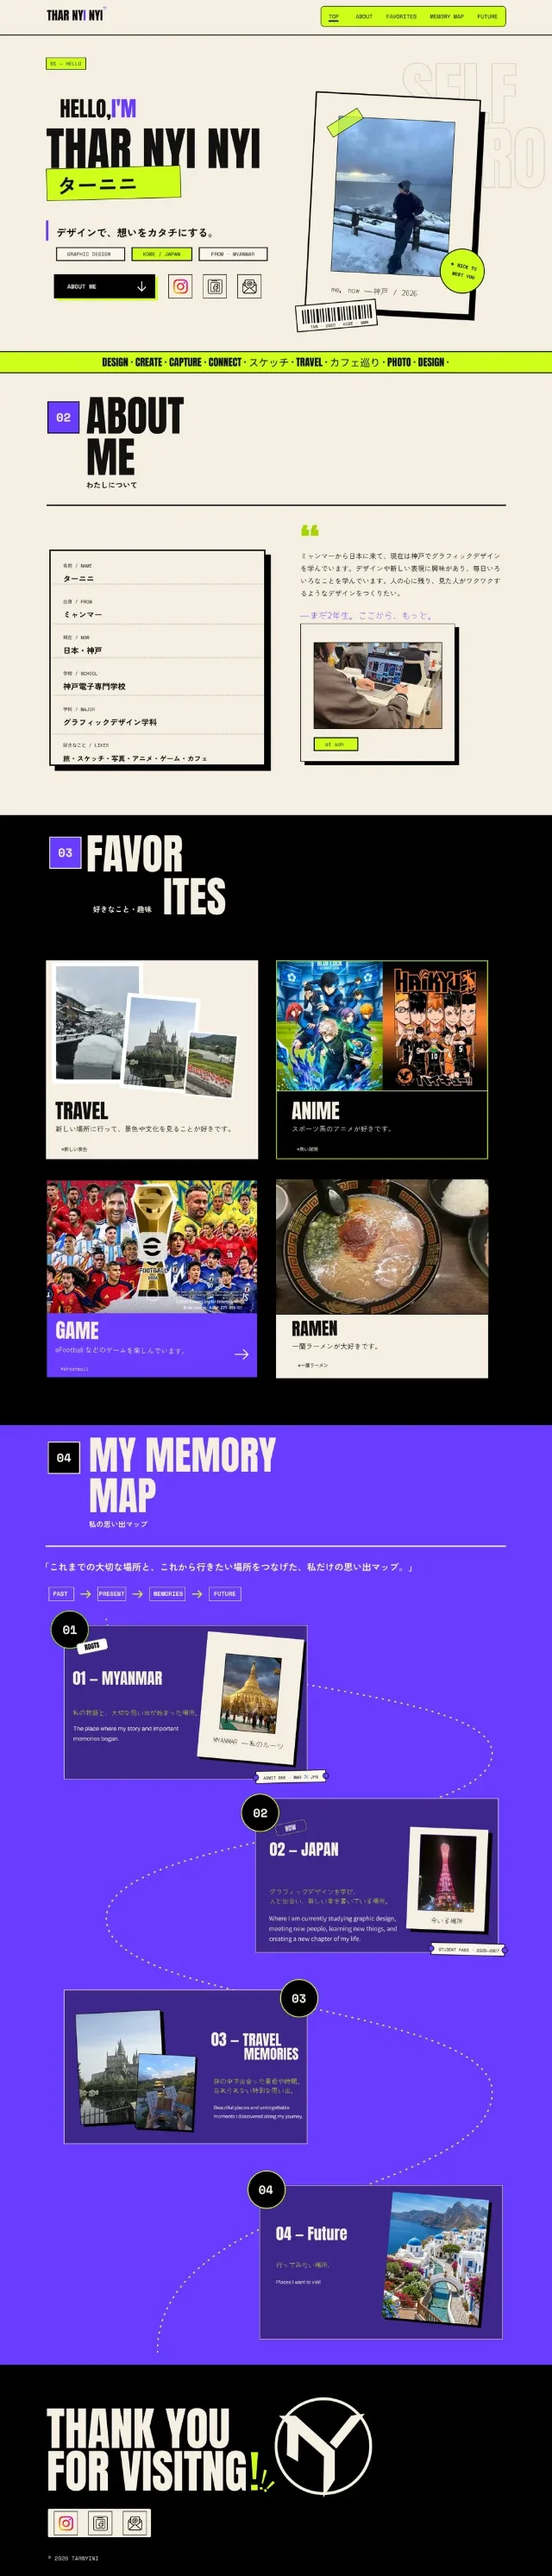
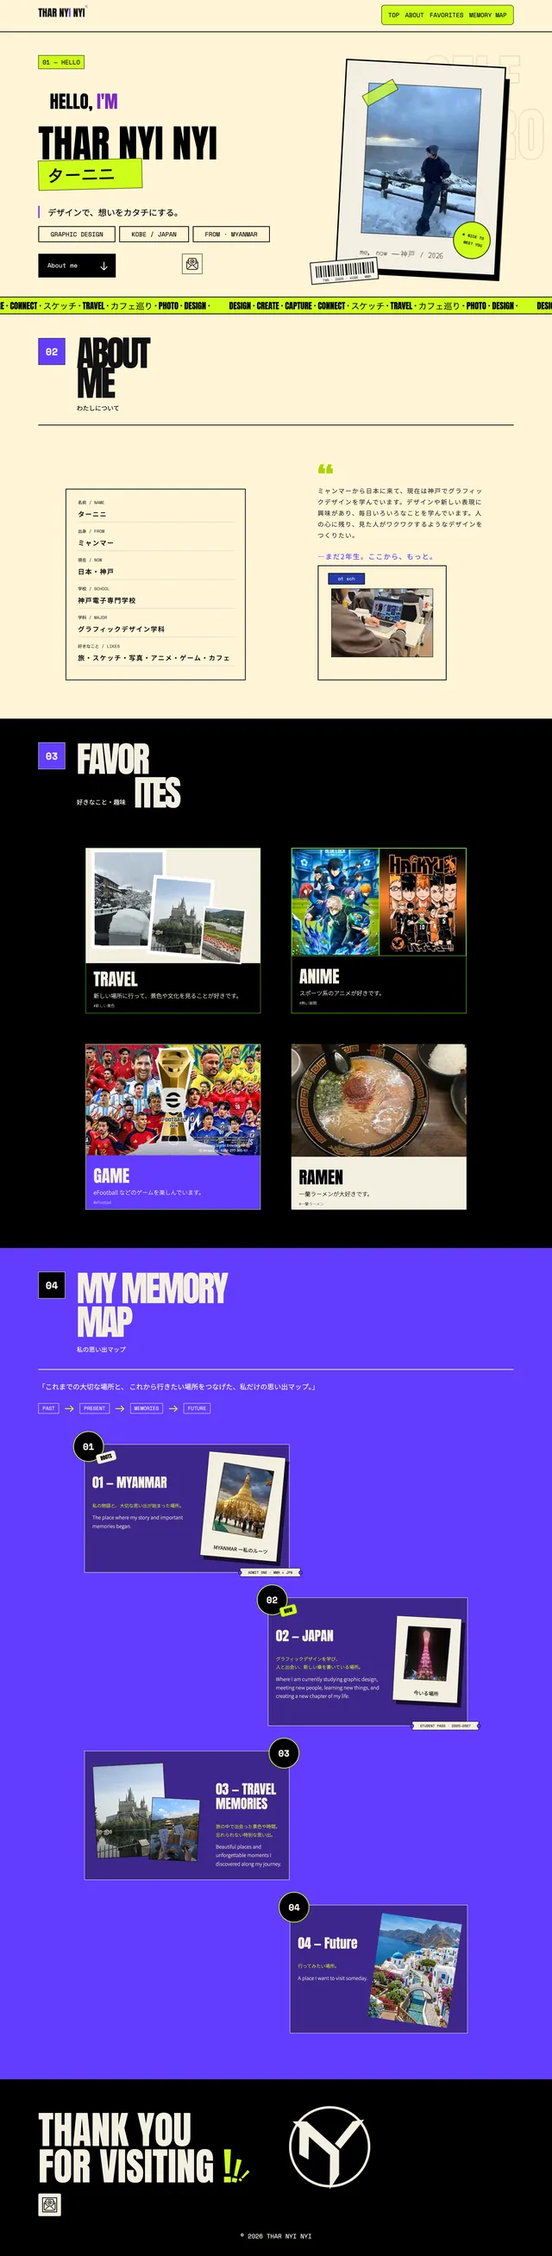
Self-intro: screenshots of the live site replace the Figma design; copy and URL bar match it

Changed region(s): [[0.0, 0.0, 1.0, 1.0], [0.5312, 0.1858, 0.875, 0.3096]]

diff --git a/works.html b/works.html
@@ -111,7 +111,7 @@
             <span class="proj-row__main">
               <span class="proj-row__meta"><span class="tag">Website Design</span><span class="work-year">2026</span></span>
               <h2 class="proj-row__title">About Me Site</h2>
-              <span class="proj-row__media" aria-hidden="true"><div class="pm"><div class="pm-browser"><div class="pm-browser__bar"><i></i><i></i><i></i></div><div class="pm-browser__view"><img src="assets/works/self-intro-site/self-intro.webp" alt="自己紹介サイト Webデザイン" width="1000" height="4665" loading="lazy" decoding="async"></div></div></div></span>
+              <span class="proj-row__media" aria-hidden="true"><div class="pm"><div class="pm-browser"><div class="pm-browser__bar"><i></i><i></i><i></i></div><div class="pm-browser__view"><img src="assets/works/self-intro-site/self-intro.webp" alt="自己紹介サイト Webデザイン" width="1000" height="4088" loading="lazy" decoding="async"></div></div></div></span>
               <span class="work-desc proj-row__desc">自分自身を紹介する1ページのWebサイト。ABOUT ME・好きなもの・思い出のマップを、クリーム×ブラック×ネオンの遊び心あるデザインでまとめました。</span>
               <span class="proj-row__foot"><span class="proj-row__tools">課題 · School Assignment — Figma</span><span class="work-readmore">View Case Study <svg viewBox="0 0 24 24" fill="none" stroke="currentColor" stroke-width="2" stroke-linecap="round" stroke-linejoin="round"><line x1="5" y1="12" x2="19" y2="12"></line><polyline points="12 5 19 12 12 19"></polyline></svg></span></span>
             </span>
@@ -292,7 +292,7 @@
         <div class="bg-grid"></div>
         <div class="proj-stage__item" data-i="0"><div class="pm"><div class="pm-browser"><div class="pm-browser__bar"><i></i><i></i><i></i></div><div class="pm-browser__view"><img src="assets/works/aquarium/aquarium-full.webp" alt="神戸北野水族館 Webサイトデザイン" width="1000" height="3413" loading="lazy"></div></div></div><span class="tag proj-stage__cat">Website Design</span><span class="proj-stage__cap">Website · Figma</span><span class="proj-stage__n">01 / 16</span></div>
         <div class="proj-stage__item" data-i="1"><div class="pm"><div class="pm-browser"><div class="pm-browser__bar"><i></i><i></i><i></i></div><div class="pm-browser__view"><img src="assets/works/web-design/forno-rosso.webp" alt="FORNO ROSSO ピザ店 Webサイトデザイン" width="1000" height="2383" loading="lazy" decoding="async"></div></div></div><span class="tag proj-stage__cat">Website Design</span><span class="proj-stage__cap">5 sites · Figma</span><span class="proj-stage__n">02 / 16</span></div>
-        <div class="proj-stage__item" data-i="2"><div class="pm"><div class="pm-browser"><div class="pm-browser__bar"><i></i><i></i><i></i></div><div class="pm-browser__view"><img src="assets/works/self-intro-site/self-intro.webp" alt="自己紹介サイト Webデザイン" width="1000" height="4665" loading="lazy" decoding="async"></div></div></div><span class="tag proj-stage__cat">Website Design</span><span class="proj-stage__cap">Self-intro · Figma</span><span class="proj-stage__n">03 / 16</span></div>
+        <div class="proj-stage__item" data-i="2"><div class="pm"><div class="pm-browser"><div class="pm-browser__bar"><i></i><i></i><i></i></div><div class="pm-browser__view"><img src="assets/works/self-intro-site/self-intro.webp" alt="自己紹介サイト Webデザイン" width="1000" height="4088" loading="lazy" decoding="async"></div></div></div><span class="tag proj-stage__cat">Website Design</span><span class="proj-stage__cap">Self-intro · Figma</span><span class="proj-stage__n">03 / 16</span></div>
         <div class="proj-stage__item" data-i="3"><div class="pm"><div class="pm-browser"><div class="pm-browser__bar"><i></i><i></i><i></i></div><div class="pm-browser__view"><img src="assets/works/portfolio-site/top.webp" alt="ポートフォリオサイト トップページ デザイン" width="1000" height="2696" loading="lazy" decoding="async"></div></div></div><span class="tag proj-stage__cat">Website Design</span><span class="proj-stage__cap">8 pages · Figma</span><span class="proj-stage__n">04 / 16</span></div>
         <div class="proj-stage__item" data-i="4"><div class="pm"><div class="pm-fan"><img src="assets/works/art-and-human/poster-01.webp" alt="アートと人 ポスター コンセプト01" width="612" height="859" loading="lazy" decoding="async"><img src="assets/works/art-and-human/poster-03.webp" alt="アートと人 展覧会ポスター" width="612" height="859" loading="lazy" decoding="async"><img src="assets/works/art-and-human/poster-05.webp" alt="アートと人 ポスター コンセプト05" width="612" height="859" loading="lazy" decoding="async"></div></div><span class="tag proj-stage__cat">Poster Design</span><span class="proj-stage__cap">5 concepts · Illustrator</span><span class="proj-stage__n">05 / 16</span></div>
         <div class="proj-stage__item" data-i="5"><div class="pm"><div class="pm-board"><div class="pm-board__row"><img src="assets/works/banner-campaign/banner-01.webp" alt="レクタングルバナー" width="300" height="279" loading="lazy" decoding="async"><img src="assets/works/banner-campaign/banner-02.webp" alt="スカイスクレイパーバナー" width="160" height="600" loading="lazy" decoding="async"></div><img src="assets/works/banner-campaign/banner-03.webp" alt="リーダーボードバナー" width="728" height="90" loading="lazy" decoding="async"><img src="assets/works/banner-campaign/banner-04.webp" alt="バナー ブルーバリエーション" width="468" height="60" loading="lazy" decoding="async"></div></div><span class="tag proj-stage__cat">Banner Design</span><span class="proj-stage__cap">4 ad formats · Illustrator</span><span class="proj-stage__n">06 / 16</span></div>

diff --git a/js/i18n.js b/js/i18n.js
@@ -636,14 +636,14 @@
       "Self-introduction website design — full page",
     "自分自身をテーマにした自己紹介サイトのデザインです。プロフィールを並べるだけでなく、好きなものや、ミャンマーから日本へと続いてきた道のりを「章」に分けて見せることで、スクロールしながら人柄が伝わる構成を目指しました。":
       "A self-introduction website with myself as the theme. Rather than just listing my profile, it divides my favourite things and my journey from Myanmar to Japan into \"chapters\", so my personality comes across as you scroll.",
-    "大きな名前のタイポグラフィと写真、SNSアイコンで第一印象をつくるヒーロー。":
-      "A hero with big name typography, a photo and social icons to make the first impression.",
+    "大きな名前のタイポグラフィと写真、メールアイコンで第一印象をつくるヒーロー。":
+      "A hero with big name typography, a photo and an email icon to make the first impression.",
     "名前・出身・学校などの基本情報と、自己紹介文をノート風のカードで。":
       "Basic information — name, hometown, school — and a short introduction on notebook-style cards.",
     "旅行・アニメ・ゲーム・ラーメンなど、好きなものを写真タイルで紹介。":
       "Favourite things — travel, anime, games, ramen — shown as photo tiles.",
-    "01 Myanmar → 02 Japan → 03 Travel Memories → 04 Future。点線のルートでつないだ、思い出と未来の地図。":
-      "01 Myanmar → 02 Japan → 03 Travel Memories → 04 Future. A map of memories and the future, connected by a dotted route.",
+    "01 Myanmar → 02 Japan → 03 Travel Memories → 04 Future。カードを順にたどる、思い出と未来の地図。":
+      "01 Myanmar → 02 Japan → 03 Travel Memories → 04 Future. A map of memories and the future, followed card by card.",
     "クリーム色の紙のような背景に、黒の太いタイポグラフィとネオングリーン・パープルのアクセントを組み合わせ、スクラップブックのような手づくり感と元気さを表現しました。写真はポラロイド風に少し傾けて配置し、セクションごとに背景色を切り替えて章の区切りをはっきりさせています。":
       "A cream, paper-like background combined with bold black typography and neon green and purple accents gives it the handmade, cheerful feel of a scrapbook. Photos are tilted slightly like Polaroids, and the background colour changes per section to mark each chapter clearly.",
     // ---- work-video.html

diff --git a/work-self-intro.html b/work-self-intro.html
@@ -84,7 +84,7 @@
         <span class="browser-dot" style="background:var(--color-primary);"></span>
         <span class="browser-dot" style="background:var(--primary-a50);"></span>
         <span class="browser-dot" style="background:var(--primary-a22);"></span>
-        <div class="browser-url">thar-nyi-nyi.me</div>
+        <div class="browser-url">tharnyinyi959-create.github.io/self-intro</div>
       </div>
       <div class="browser-scroll">
         <img src="assets/works/self-intro-site/self-intro.webp" alt="自己紹介サイト Webデザイン フルページ" loading="lazy">
@@ -111,7 +111,7 @@
         <div class="process-steps">
           <div class="process-step">
             <span class="process-num">01</span>
-            <div><h4>Hello, I'm Thar Nyi Nyi</h4><p>大きな名前のタイポグラフィと写真、SNSアイコンで第一印象をつくるヒーロー。</p></div>
+            <div><h4>Hello, I'm Thar Nyi Nyi</h4><p>大きな名前のタイポグラフィと写真、メールアイコンで第一印象をつくるヒーロー。</p></div>
           </div>
           <div class="process-step">
             <span class="process-num">02</span>
@@ -123,7 +123,7 @@
           </div>
           <div class="process-step">
             <span class="process-num">04</span>
-            <div><h4>My Memory Map</h4><p>01 Myanmar → 02 Japan → 03 Travel Memories → 04 Future。点線のルートでつないだ、思い出と未来の地図。</p></div>
+            <div><h4>My Memory Map</h4><p>01 Myanmar → 02 Japan → 03 Travel Memories → 04 Future。カードを順にたどる、思い出と未来の地図。</p></div>
           </div>
         </div>
       </div>

diff --git a/index.html b/index.html
@@ -388,7 +388,7 @@
               </li>
               <li class="dk__card" data-i="2">
                 <a class="dk__link" href="work-self-intro.html" data-cursor="Flick" aria-label="自己紹介サイト — Hello, I'm Thar Nyi Nyi — Website Design">
-                  <span class="hg__card"><span class="hg__photo hg__photo--tall"><img src="assets/works/self-intro-site/self-intro-sm.webp" alt="自己紹介サイト Webデザイン" width="1000" height="4665" loading="lazy" draggable="false"></span></span>
+                  <span class="hg__card"><span class="hg__photo hg__photo--tall"><img src="assets/works/self-intro-site/self-intro-sm.webp" alt="自己紹介サイト Webデザイン" width="1000" height="4088" loading="lazy" draggable="false"></span></span>
                   <span class="hg__tag"><span class="hg__title">About Me Site</span><span class="hg__sub">Website Design</span></span>
                 </a>
               </li>

diff --git a/css/style.css b/css/style.css
@@ -2583,6 +2583,7 @@ code {
 .browser-url {
   margin-left: 8px;
   flex: 1;
+  min-width: 0;
   background: var(--bg);
   border-radius: var(--r-full);
   padding: 6px 16px;
@@ -2590,6 +2591,9 @@ code {
   font-size: 12px;
   color: var(--text-secondary);
   text-align: center;
+  white-space: nowrap;
+  overflow: hidden;
+  text-overflow: ellipsis;
 }
 
 .browser-scroll {
